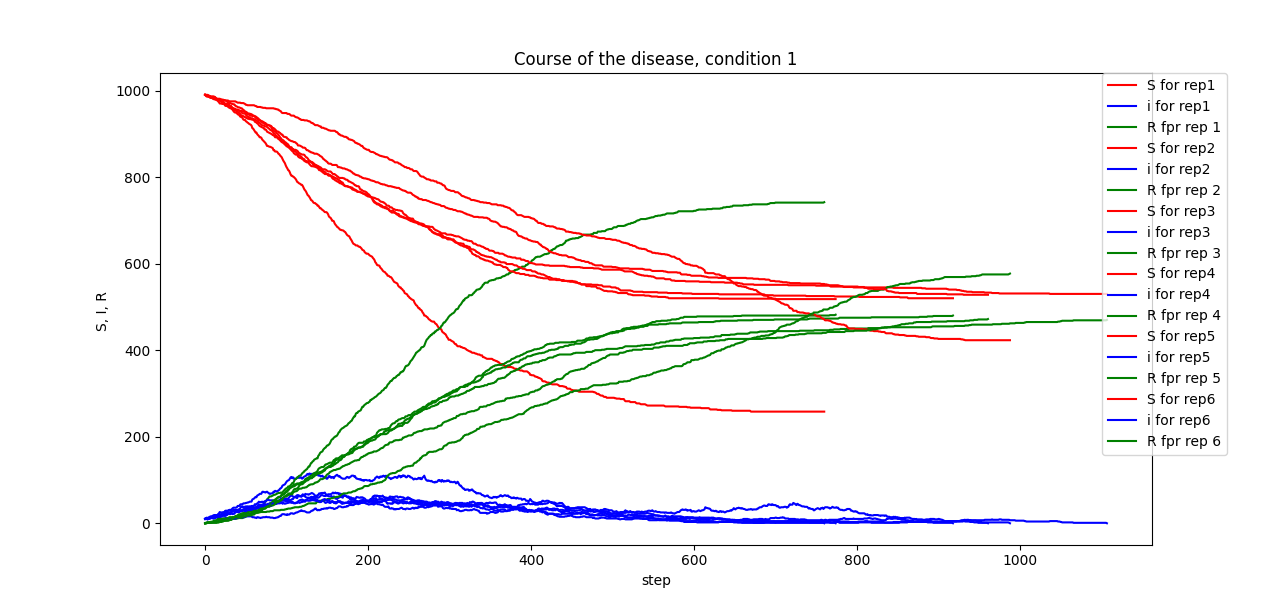
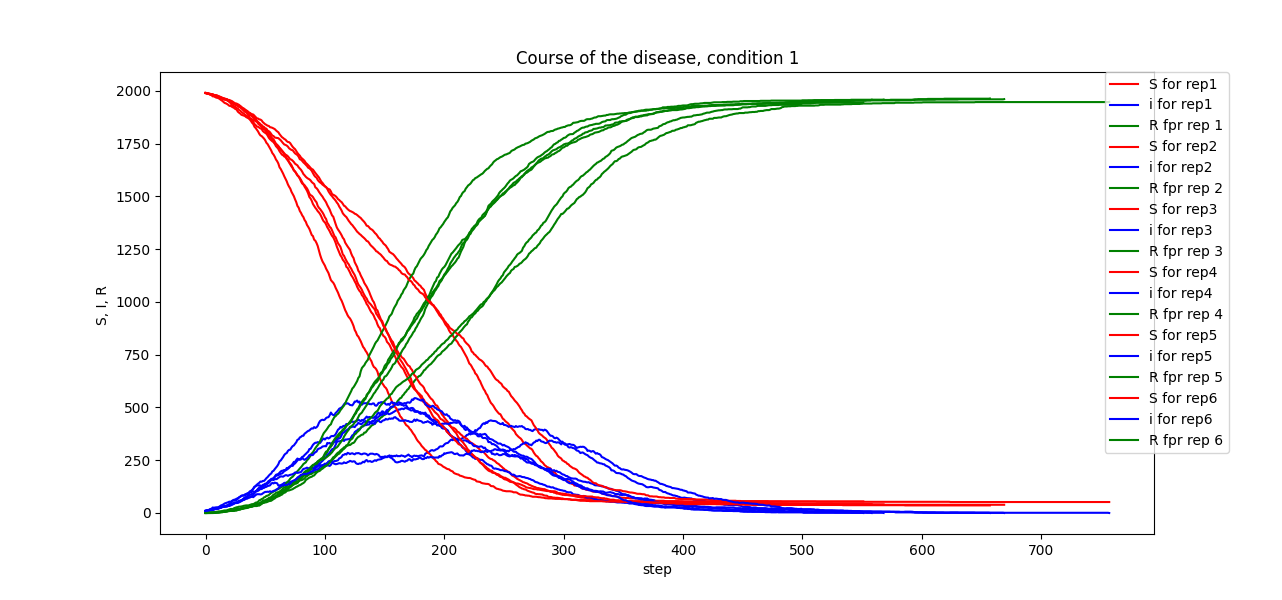
Done with 3.1

diff --git a/pt3.py b/pt3.py
@@ -58,7 +58,7 @@ def diffuse_spread_recover(x, y, status, d, beta, gamma, L):
     return x, y, status
 
 
-N_part = 1000  # Total agent population.
+N_part = 2000  # Total agent population.
 d = 0.9  # Diffusion probability.
 L = 100  # Side of the lattice.
 
@@ -92,13 +92,48 @@ for rep in range(n_reps):
             running = False
 
     t = np.array(np.arange(len(S)))
-    plt.plot(t, S, '-', color= 'r', label=f'S for rep{rep+1}')
-    plt.plot(t, I, '-', color= 'b', label=f"i for rep{rep + 1}")
-    plt.plot(t, R, '-', color= 'g', label=f"R fpr rep {rep +1}")
+    plt.plot(t, S, '-', label=f'S for rep{rep+1}')
+    plt.plot(t, I, '-', label=f"i for rep{rep + 1}")
+    plt.plot(t, R, '-', label=f"R fpr rep {rep +1}")
 
 
 plt.legend(loc='upper left', bbox_to_anchor=(0.95, 1), borderaxespad=0)
 plt.title('Course of the disease, condition 1')
+plt.xlabel('step')
+plt.ylabel('S, I, R ')
+plt.show()
+
+
+
+
+
+#Second condition
+plt.figure(figsize=(15, 6))
+for rep in range(n_reps):
+    print(f"rep is {rep}")
+    x = np.random.randint(L, size=N_part)
+    y = np.random.randint(L, size=N_part)
+    status = np.zeros(N_part)
+    status[0:I0] = 1
+    S, I, R = [N_part-I0], [I0], [0]
+    running = True  # Flag to control the loop.
+    while running:
+        x, y, status = diffuse_spread_recover(x, y, status, d, betas[1], gammas[1], L)  
+    
+        S.append(np.size(np.where(status == 0)[0]))
+        I.append(np.size(np.where(status == 1)[0]))
+        R.append(np.size(np.where(status == 2)[0]))
+        if I[-1] == 0: 
+            running = False
+
+    t = np.array(np.arange(len(S)))
+    plt.plot(t, S, '-', label=f'S for rep{rep+1}')
+    plt.plot(t, I, '-', label=f"i for rep{rep + 1}")
+    plt.plot(t, R, '-', label=f"R fpr rep {rep +1}")
+
+
+plt.legend(loc='upper left', bbox_to_anchor=(0.95, 1), borderaxespad=0)
+plt.title('Course of the disease, condition 2')
 plt.xlabel('step')
 plt.ylabel('S, I, R ')
 plt.show()
